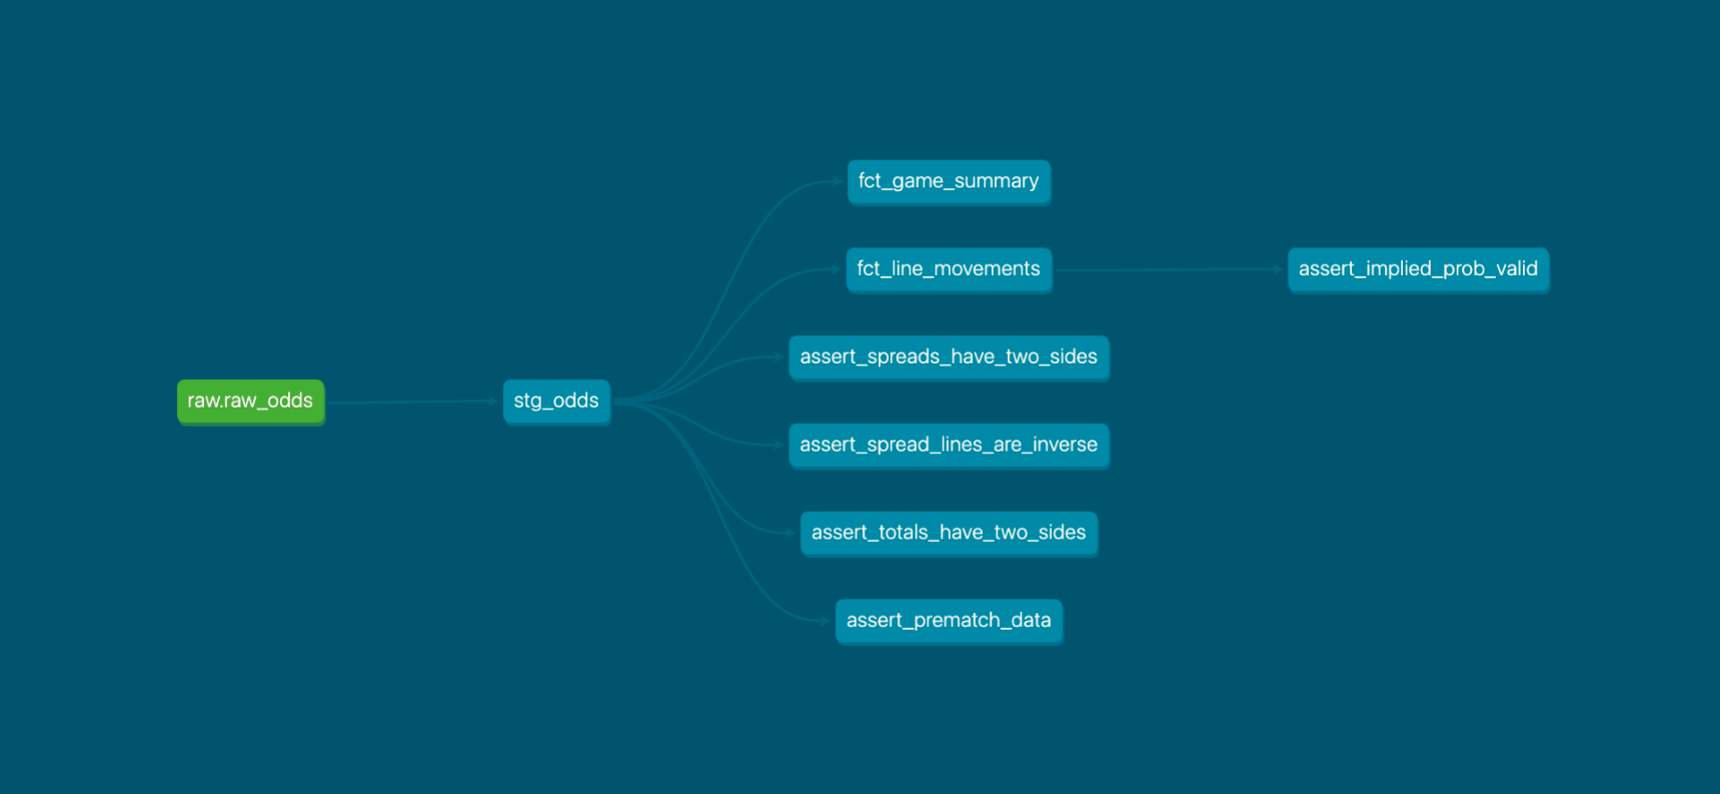
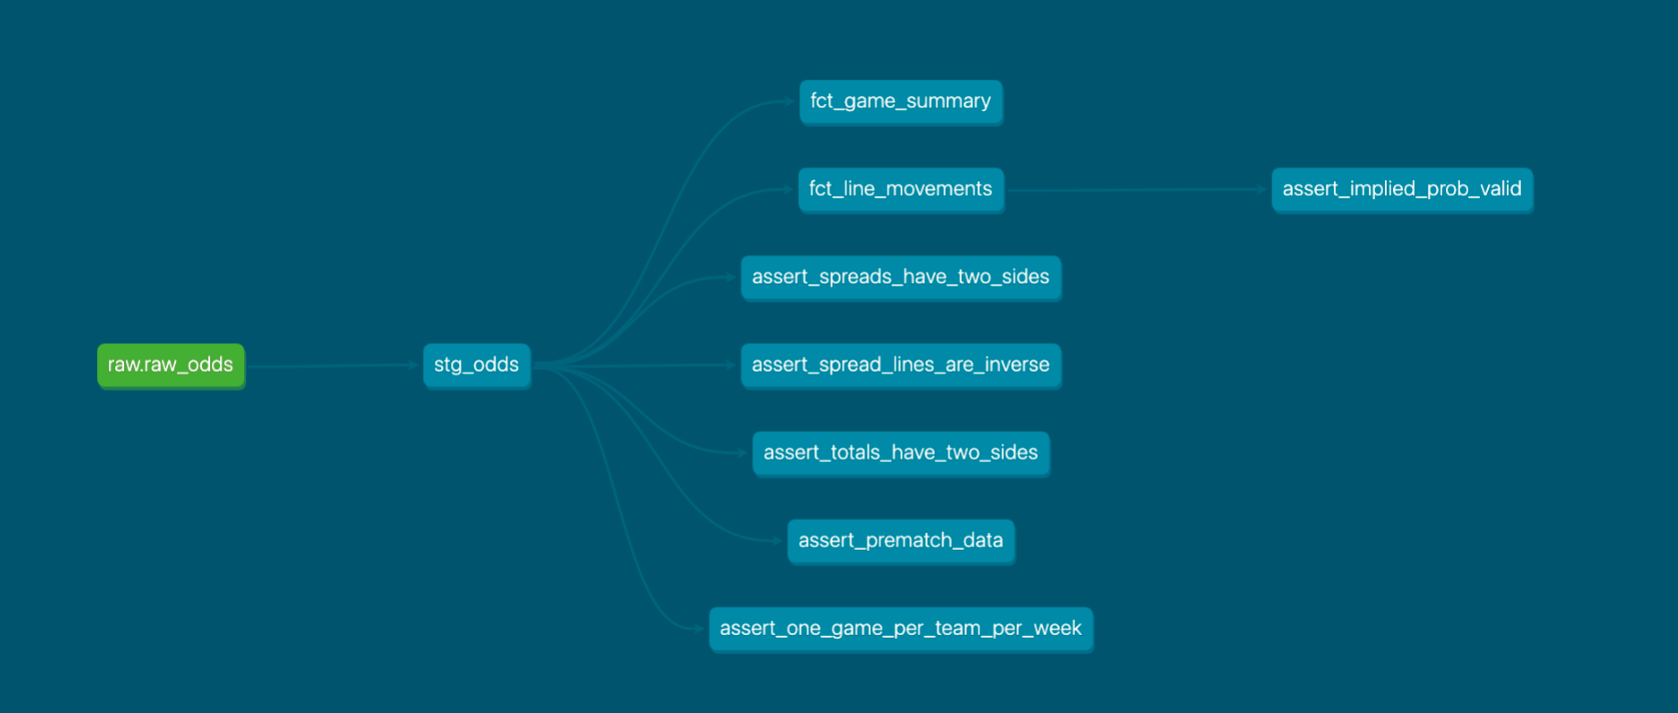
Update dashboard for new release link, update readme for single game test + lineage image

diff --git a/dashboard.py b/dashboard.py
@@ -12,7 +12,7 @@ import plotly.graph_objects as go
 # Streamlit: https://demo-stockpeers.streamlit.app/?ref=streamlit-io-gallery-favorites&stocks=AAPL%2CMSFT%2CGOOGL%2CNVDA%2CAMZN%2CTSLA%2CMETA
 
 DB_PATH = "data/nfl_odds.duckdb"
-DB_URL = "https://github.com/bobby-king3/nfl-market-movement-tracker/releases/download/v1.1.0/nfl_odds.duckdb"
+DB_URL = "https://github.com/bobby-king3/nfl-market-movement-tracker/releases/download/v1.1.1/nfl_odds.duckdb"
 
 if not os.path.exists(DB_PATH):
     os.makedirs("data", exist_ok=True)

diff --git a/README.md b/README.md
@@ -25,7 +25,7 @@ I pulled historical odds from [The Odds API](https://the-odds-api.com/) 4 times 
 
 **Tests**
 - `not_null` and `accepted_values` on staging columns
-- Custom tests validating that every spread and total has two sides, lines are properly inverse (+3 / -3), all data is pre-match, and implied probabilities are valid
+- Custom tests validating that every spread and total has two sides, lines are properly inverse (+3 / -3), all data is pre-match, implied probabilities are valid, and each team appears in only one game per week
 
 ## dbt Lineage
 
